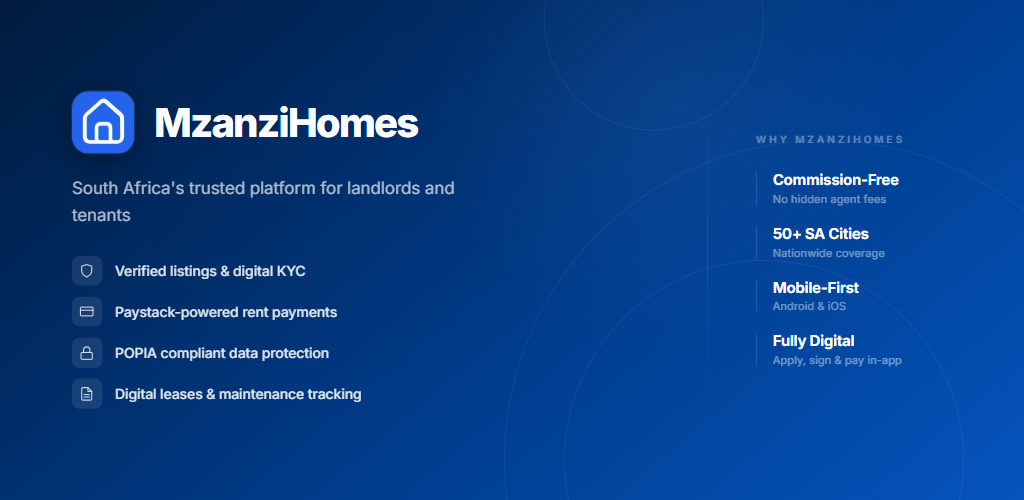
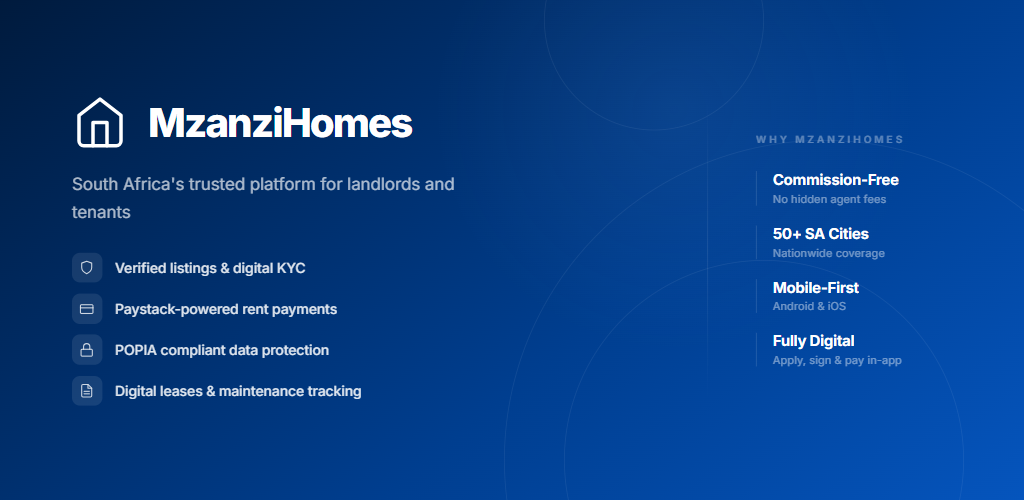
feat(play-store): add real app screenshots and premium feature graphic
- Feature graphic: white SVG house logo, Lucide-style icons, premium dark blue gradient
- Gallery page showing all final assets
- 5 framed screenshots from live site (home, properties, detail, dashboard, sign-in)
- Raw screenshots captured at 390x844 mobile viewport from localhost:5173

diff --git a/docs/play-store/gallery.html b/docs/play-store/gallery.html
@@ -1,0 +1,99 @@
+<!DOCTYPE html>
+<html lang="en">
+<head>
+  <meta charset="UTF-8"/>
+  <title>MzanziHomes — Play Store Assets</title>
+  <link href="https://fonts.googleapis.com/css2?family=Inter:wght@400;500;600;700&display=swap" rel="stylesheet">
+  <style>
+    *,*::before,*::after{box-sizing:border-box;margin:0;padding:0}
+    body{background:#0f172a;font-family:'Inter',-apple-system,sans-serif;color:white;padding:48px 40px 80px;min-height:100vh}
+
+    h1{font-size:22px;font-weight:700;letter-spacing:-0.5px;margin-bottom:4px}
+    .sub{font-size:14px;color:#64748b;margin-bottom:48px}
+
+    .section-label{
+      font-size:10px;font-weight:600;letter-spacing:3px;text-transform:uppercase;
+      color:#475569;margin-bottom:16px
+    }
+
+    /* Feature graphic */
+    .feature-wrap{margin-bottom:56px}
+    .feature-img{
+      width:100%;max-width:1024px;display:block;border-radius:12px;
+      box-shadow:0 24px 64px rgba(0,0,0,0.5);border:1px solid rgba(255,255,255,0.06)
+    }
+    .dim{font-size:11px;color:#334155;margin-top:10px}
+
+    /* Screenshots grid */
+    .grid{
+      display:grid;
+      grid-template-columns:repeat(3,1fr);
+      gap:24px;
+      max-width:1024px;
+      margin-bottom:56px
+    }
+    .card{background:#1e293b;border-radius:12px;overflow:hidden;border:1px solid rgba(255,255,255,0.06)}
+    .card img{width:100%;display:block}
+    .card-label{padding:12px 14px;font-size:12px;font-weight:500;color:#94a3b8;border-top:1px solid rgba(255,255,255,0.05)}
+    .card-num{font-size:10px;color:#334155;margin-top:2px}
+  </style>
+</head>
+<body>
+  <h1>MzanziHomes — Play Store Assets</h1>
+  <div class="sub">All images ready for upload to Google Play Console</div>
+
+  <div class="feature-wrap">
+    <div class="section-label">Feature Graphic</div>
+    <img class="feature-img" src="/docs/play-store/feature-graphic.png" alt="Feature graphic"/>
+    <div class="dim">1024 × 500 px</div>
+  </div>
+
+  <div class="section-label" style="margin-bottom:16px">Framed Screenshots (Play Store ready)</div>
+  <div class="grid">
+    <div class="card">
+      <img src="/docs/play-store/screenshots/real-1.png" alt="Home"/>
+      <div class="card-label">Find your perfect home<div class="card-num">real-1.png · 1080px</div></div>
+    </div>
+    <div class="card">
+      <img src="/docs/play-store/screenshots/real-2.png" alt="Properties"/>
+      <div class="card-label">Browse verified rentals<div class="card-num">real-2.png · 1080px</div></div>
+    </div>
+    <div class="card">
+      <img src="/docs/play-store/screenshots/real-3.png" alt="Property detail"/>
+      <div class="card-label">Everything you need to decide<div class="card-num">real-3.png · 1080px</div></div>
+    </div>
+    <div class="card">
+      <img src="/docs/play-store/screenshots/real-4.png" alt="Dashboard"/>
+      <div class="card-label">Manage all your properties<div class="card-num">real-4.png · 1080px</div></div>
+    </div>
+    <div class="card">
+      <img src="/docs/play-store/screenshots/real-5.png" alt="Sign In"/>
+      <div class="card-label">Get started in seconds<div class="card-num">real-5.png · 1080px</div></div>
+    </div>
+  </div>
+
+  <div class="section-label" style="margin-bottom:16px">Raw Screenshots (source)</div>
+  <div class="grid">
+    <div class="card">
+      <img src="/docs/play-store/screenshots/raw-0-home.png" alt="Home"/>
+      <div class="card-label">Homepage hero<div class="card-num">raw-0-home.png · 390×844</div></div>
+    </div>
+    <div class="card">
+      <img src="/docs/play-store/screenshots/raw-1-properties.png" alt="Properties"/>
+      <div class="card-label">Properties listing<div class="card-num">raw-1-properties.png · 390×844</div></div>
+    </div>
+    <div class="card">
+      <img src="/docs/play-store/screenshots/raw-2-property-detail.png" alt="Property detail"/>
+      <div class="card-label">Property detail<div class="card-num">raw-2-property-detail.png · 390×844</div></div>
+    </div>
+    <div class="card">
+      <img src="/docs/play-store/screenshots/raw-3-dashboard.png" alt="Dashboard"/>
+      <div class="card-label">Landlord dashboard<div class="card-num">raw-3-dashboard.png · 390×844</div></div>
+    </div>
+    <div class="card">
+      <img src="/docs/play-store/screenshots/raw-auth.png" alt="Auth"/>
+      <div class="card-label">Sign In<div class="card-num">raw-auth.png · 390×844</div></div>
+    </div>
+  </div>
+</body>
+</html>

diff --git a/docs/play-store/screenshots/real-4.html b/docs/play-store/screenshots/real-4.html
@@ -1,0 +1,16 @@
+<!DOCTYPE html><html lang="en"><head><meta charset="UTF-8"/>
+<link href="https://fonts.googleapis.com/css2?family=Inter:wght@400;600;700;800&display=swap" rel="stylesheet">
+<style>
+*,*::before,*::after{box-sizing:border-box;margin:0;padding:0}
+body{width:1080px;background:linear-gradient(160deg,hsl(214,100%,14%) 0%,hsl(214,100%,32%) 100%);font-family:'Inter',-apple-system,sans-serif;display:flex;flex-direction:column;align-items:center;padding:64px 40px 52px}
+.caption{color:white;font-size:46px;font-weight:800;text-align:center;line-height:1.15;margin-bottom:48px;letter-spacing:-2px;max-width:880px}
+.phone{width:400px;background:#0a0a0a;border-radius:54px;padding:12px;box-shadow:0 60px 140px rgba(0,0,0,0.65),0 0 0 1.5px rgba(255,255,255,0.08),inset 0 0 0 1px rgba(255,255,255,0.04);position:relative}
+.notch{position:absolute;top:12px;left:50%;transform:translateX(-50%);width:108px;height:30px;background:#0a0a0a;border-radius:0 0 20px 20px;z-index:10}
+.screen{border-radius:44px;overflow:hidden;width:100%}
+.screen img{width:100%;display:block}
+.brand{color:rgba(255,255,255,0.3);font-size:15px;font-weight:700;margin-top:40px;letter-spacing:3px;text-transform:uppercase}
+</style></head><body>
+<div class="caption">Manage all your properties in one place</div>
+<div class="phone"><div class="notch"></div><div class="screen"><img src="/docs/play-store/screenshots/raw-3-dashboard.png"/></div></div>
+<div class="brand">MzanziHomes</div>
+</body></html>

diff --git a/docs/play-store/screenshots/real-3.html b/docs/play-store/screenshots/real-3.html
@@ -1,0 +1,16 @@
+<!DOCTYPE html><html lang="en"><head><meta charset="UTF-8"/>
+<link href="https://fonts.googleapis.com/css2?family=Inter:wght@400;600;700;800&display=swap" rel="stylesheet">
+<style>
+*,*::before,*::after{box-sizing:border-box;margin:0;padding:0}
+body{width:1080px;background:linear-gradient(160deg,hsl(214,100%,14%) 0%,hsl(214,100%,32%) 100%);font-family:'Inter',-apple-system,sans-serif;display:flex;flex-direction:column;align-items:center;padding:64px 40px 52px}
+.caption{color:white;font-size:46px;font-weight:800;text-align:center;line-height:1.15;margin-bottom:48px;letter-spacing:-2px;max-width:880px}
+.phone{width:400px;background:#0a0a0a;border-radius:54px;padding:12px;box-shadow:0 60px 140px rgba(0,0,0,0.65),0 0 0 1.5px rgba(255,255,255,0.08),inset 0 0 0 1px rgba(255,255,255,0.04);position:relative}
+.notch{position:absolute;top:12px;left:50%;transform:translateX(-50%);width:108px;height:30px;background:#0a0a0a;border-radius:0 0 20px 20px;z-index:10}
+.screen{border-radius:44px;overflow:hidden;width:100%}
+.screen img{width:100%;display:block}
+.brand{color:rgba(255,255,255,0.3);font-size:15px;font-weight:700;margin-top:40px;letter-spacing:3px;text-transform:uppercase}
+</style></head><body>
+<div class="caption">Everything you need to decide</div>
+<div class="phone"><div class="notch"></div><div class="screen"><img src="/docs/play-store/screenshots/raw-2-property-detail.png"/></div></div>
+<div class="brand">MzanziHomes</div>
+</body></html>

diff --git a/docs/play-store/screenshots/real-1.html b/docs/play-store/screenshots/real-1.html
@@ -1,0 +1,16 @@
+<!DOCTYPE html><html lang="en"><head><meta charset="UTF-8"/>
+<link href="https://fonts.googleapis.com/css2?family=Inter:wght@400;600;700;800&display=swap" rel="stylesheet">
+<style>
+*,*::before,*::after{box-sizing:border-box;margin:0;padding:0}
+body{width:1080px;background:linear-gradient(160deg,hsl(214,100%,14%) 0%,hsl(214,100%,32%) 100%);font-family:'Inter',-apple-system,sans-serif;display:flex;flex-direction:column;align-items:center;padding:64px 40px 52px}
+.caption{color:white;font-size:46px;font-weight:800;text-align:center;line-height:1.15;margin-bottom:48px;letter-spacing:-2px;max-width:880px}
+.phone{width:400px;background:#0a0a0a;border-radius:54px;padding:12px;box-shadow:0 60px 140px rgba(0,0,0,0.65),0 0 0 1.5px rgba(255,255,255,0.08),inset 0 0 0 1px rgba(255,255,255,0.04);position:relative}
+.notch{position:absolute;top:12px;left:50%;transform:translateX(-50%);width:108px;height:30px;background:#0a0a0a;border-radius:0 0 20px 20px;z-index:10}
+.screen{border-radius:44px;overflow:hidden;width:100%}
+.screen img{width:100%;display:block}
+.brand{color:rgba(255,255,255,0.3);font-size:15px;font-weight:700;margin-top:40px;letter-spacing:3px;text-transform:uppercase}
+</style></head><body>
+<div class="caption">Find your perfect home in South Africa</div>
+<div class="phone"><div class="notch"></div><div class="screen"><img src="/docs/play-store/screenshots/raw-0-home.png"/></div></div>
+<div class="brand">MzanziHomes</div>
+</body></html>

diff --git a/docs/play-store/screenshots/real-2.html b/docs/play-store/screenshots/real-2.html
@@ -1,0 +1,16 @@
+<!DOCTYPE html><html lang="en"><head><meta charset="UTF-8"/>
+<link href="https://fonts.googleapis.com/css2?family=Inter:wght@400;600;700;800&display=swap" rel="stylesheet">
+<style>
+*,*::before,*::after{box-sizing:border-box;margin:0;padding:0}
+body{width:1080px;background:linear-gradient(160deg,hsl(214,100%,14%) 0%,hsl(214,100%,32%) 100%);font-family:'Inter',-apple-system,sans-serif;display:flex;flex-direction:column;align-items:center;padding:64px 40px 52px}
+.caption{color:white;font-size:46px;font-weight:800;text-align:center;line-height:1.15;margin-bottom:48px;letter-spacing:-2px;max-width:880px}
+.phone{width:400px;background:#0a0a0a;border-radius:54px;padding:12px;box-shadow:0 60px 140px rgba(0,0,0,0.65),0 0 0 1.5px rgba(255,255,255,0.08),inset 0 0 0 1px rgba(255,255,255,0.04);position:relative}
+.notch{position:absolute;top:12px;left:50%;transform:translateX(-50%);width:108px;height:30px;background:#0a0a0a;border-radius:0 0 20px 20px;z-index:10}
+.screen{border-radius:44px;overflow:hidden;width:100%}
+.screen img{width:100%;display:block}
+.brand{color:rgba(255,255,255,0.3);font-size:15px;font-weight:700;margin-top:40px;letter-spacing:3px;text-transform:uppercase}
+</style></head><body>
+<div class="caption">Browse verified rentals near you</div>
+<div class="phone"><div class="notch"></div><div class="screen"><img src="/docs/play-store/screenshots/raw-1-properties.png"/></div></div>
+<div class="brand">MzanziHomes</div>
+</body></html>

diff --git a/docs/play-store/screenshots/real-5.html b/docs/play-store/screenshots/real-5.html
@@ -1,0 +1,16 @@
+<!DOCTYPE html><html lang="en"><head><meta charset="UTF-8"/>
+<link href="https://fonts.googleapis.com/css2?family=Inter:wght@400;600;700;800&display=swap" rel="stylesheet">
+<style>
+*,*::before,*::after{box-sizing:border-box;margin:0;padding:0}
+body{width:1080px;background:linear-gradient(160deg,hsl(214,100%,14%) 0%,hsl(214,100%,32%) 100%);font-family:'Inter',-apple-system,sans-serif;display:flex;flex-direction:column;align-items:center;padding:64px 40px 52px}
+.caption{color:white;font-size:46px;font-weight:800;text-align:center;line-height:1.15;margin-bottom:48px;letter-spacing:-2px;max-width:880px}
+.phone{width:400px;background:#0a0a0a;border-radius:54px;padding:12px;box-shadow:0 60px 140px rgba(0,0,0,0.65),0 0 0 1.5px rgba(255,255,255,0.08),inset 0 0 0 1px rgba(255,255,255,0.04);position:relative}
+.notch{position:absolute;top:12px;left:50%;transform:translateX(-50%);width:108px;height:30px;background:#0a0a0a;border-radius:0 0 20px 20px;z-index:10}
+.screen{border-radius:44px;overflow:hidden;width:100%}
+.screen img{width:100%;display:block}
+.brand{color:rgba(255,255,255,0.3);font-size:15px;font-weight:700;margin-top:40px;letter-spacing:3px;text-transform:uppercase}
+</style></head><body>
+<div class="caption">Get started in seconds</div>
+<div class="phone"><div class="notch"></div><div class="screen"><img src="/docs/play-store/screenshots/raw-auth.png"/></div></div>
+<div class="brand">MzanziHomes</div>
+</body></html>

diff --git a/docs/play-store/feature-graphic.html b/docs/play-store/feature-graphic.html
@@ -26,10 +26,10 @@
     .left{flex:1;padding-right:52px}
 
     .logo-row{display:flex;align-items:center;gap:20px;margin-bottom:20px}
-    .logo-img{
-      width:62px;height:62px;border-radius:17px;object-fit:cover;
-      box-shadow:0 8px 32px rgba(0,0,0,0.4),0 0 0 1px rgba(255,255,255,0.1)
+    .logo-icon{
+      width:56px;height:56px;display:flex;align-items:center;justify-content:center;flex-shrink:0
     }
+    .logo-icon svg{width:56px;height:56px;stroke:white;fill:none;stroke-width:1.5;stroke-linecap:round;stroke-linejoin:round}
     .app-name{font-size:40px;font-weight:800;letter-spacing:-1.8px;line-height:1}
 
     .tagline{
@@ -76,7 +76,9 @@
   <div class="content">
     <div class="left">
       <div class="logo-row">
-        <img class="logo-img" src="/public/logo2.png" alt="MzanziHomes"/>
+        <div class="logo-icon">
+          <svg viewBox="0 0 24 24"><path d="M3 9l9-7 9 7v11a2 2 0 0 1-2 2H5a2 2 0 0 1-2-2z"/><polyline points="9 22 9 12 15 12 15 22"/></svg>
+        </div>
         <div class="app-name">MzanziHomes</div>
       </div>
       <div class="tagline">South Africa's trusted platform for landlords and tenants</div>
